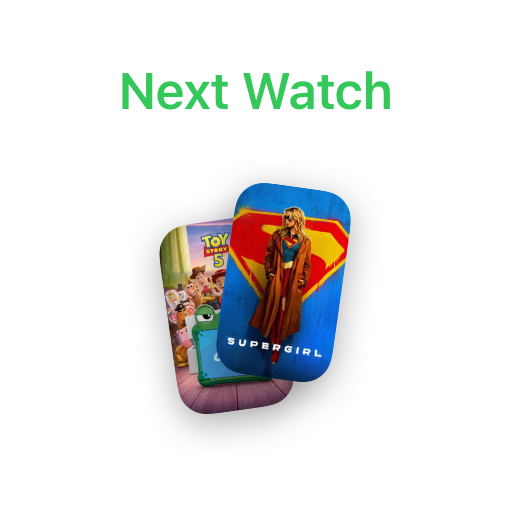
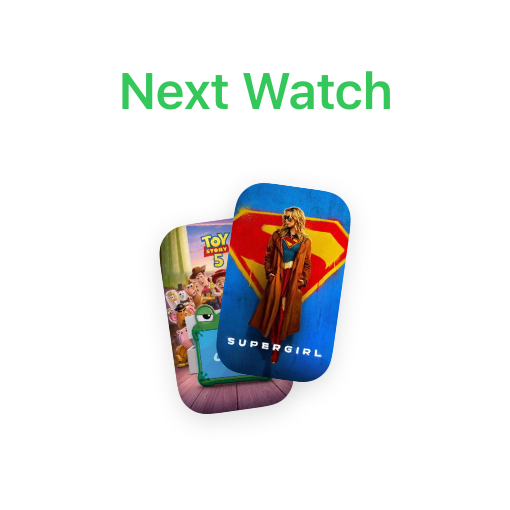
Replace Lock Screen collage tiles with extra-large widgets and soften shadows

Changed region(s): [[0.3824, 0.7353, 0.6471, 0.8529], [0.4118, 0.4118, 0.4706, 0.4412]]

diff --git a/index.html b/index.html
@@ -23,7 +23,7 @@
     <link rel="icon" type="image/png" sizes="16x16" href="/favicon-16.png?v=f683aeb">
     <link rel="apple-touch-icon" sizes="180x180" href="/favicon-180.png?v=f683aeb">
     <link rel="preload" as="image" type="image/png" href="/assets/hand-cursor.png?v=1">
-    <link rel="stylesheet" href="style.css?v=108">
+    <link rel="stylesheet" href="style.css?v=109">
     <script src="devices.js?v=4" defer></script>
     <script src="widgets.js?v=1" defer></script>
     <script src="cursor.js?v=1" defer></script>
@@ -114,37 +114,27 @@
 
     <section class="widgets-showcase" aria-labelledby="widgets-heading">
         <div class="widgets-copy">
-            <p class="widgets-eyebrow">Home &amp; Lock Screen widgets</p>
+            <p class="widgets-eyebrow">Home Screen widgets</p>
             <h2 id="widgets-heading">Your next watch, at a glance.</h2>
-            <p class="widgets-description">Keep your watchlist close and your next watch even closer. Bring your favorite movies and shows to your Home Screen and Lock Screen with widgets that make Binge feel right at home.</p>
+            <p class="widgets-description">Keep your watchlist close and your next watch even closer. Bring your favorite movies and shows to your Home Screen with widgets that make Binge feel right at home.</p>
         </div>
         <div class="widgets-wall" id="widgets-wall" tabindex="0" role="region" aria-label="Binge light-mode widgets. Scroll sideways to explore." aria-describedby="widgets-hint">
             <div class="widgets-track">
                 <div class="widgets-group">
-                    <img class="widget-tile widget-tile--large" src="assets/widgets/movies-large.png" width="1092" height="1092" alt="Movie watchlist with Spider-Man: Brand New Day, The Odyssey, Toy Story 5, Supergirl, and The Devil Wears Prada 2" loading="lazy" decoding="async">
-                    <img class="widget-tile widget-tile--small" src="assets/widgets/movies-small.png" width="510" height="510" alt="Watchlist widget with Spider-Man: Brand New Day and The Odyssey" loading="lazy" decoding="async">
-                    <img class="widget-tile widget-tile--small" src="assets/widgets/shows-small.png" width="510" height="510" alt="Watchlist widget with House of the Dragon and The Bear" loading="lazy" decoding="async">
-                    <img class="widget-tile widget-tile--medium" src="assets/widgets/shows-medium.png" width="1092" height="510" alt="Show watchlist with House of the Dragon, The Bear, Severance, and Alien: Earth" loading="lazy" decoding="async">
-                    <img class="widget-tile widget-tile--large" src="assets/widgets/shows-large.png" width="1092" height="1092" alt="Show watchlist with House of the Dragon, The Bear, Severance, Alien: Earth, and Wednesday" loading="lazy" decoding="async">
-                    <img class="widget-tile widget-tile--small" src="assets/widgets/next-small.png" width="510" height="510" alt="Next Watch widget with Toy Story 5 and Supergirl" loading="lazy" decoding="async">
-                    <img class="widget-tile widget-tile--large" src="assets/widgets/next-large.png" width="1092" height="1092" alt="Your Next Watch with The Odyssey, Toy Story 5, Supergirl, The Devil Wears Prada 2, and Project Hail Mary" loading="lazy" decoding="async">
-                    <img class="widget-tile widget-tile--medium" src="assets/widgets/next-medium.png" width="1092" height="510" alt="Your Next Watch with Toy Story 5, Supergirl, The Devil Wears Prada 2, and Project Hail Mary" loading="lazy" decoding="async">
-                    <img class="widget-tile widget-tile--small" src="assets/widgets/movies-small-alt.png" width="510" height="510" alt="Watchlist widget with The Devil Wears Prada 2 and Project Hail Mary" loading="lazy" decoding="async">
-                    <img class="widget-tile widget-tile--small" src="assets/widgets/shows-small-alt.png" width="510" height="510" alt="Watchlist widget with Wednesday and The Pitt" loading="lazy" decoding="async">
-                    <img class="widget-tile widget-tile--small" src="assets/widgets/next-small-alt.png" width="510" height="510" alt="Next Watch widget with Spider-Man: Brand New Day and The Odyssey" loading="lazy" decoding="async">
-                    <img class="widget-tile widget-tile--medium" src="assets/widgets/movies-medium.png" width="1092" height="510" alt="Movie watchlist with Spider-Man: Brand New Day, The Odyssey, Toy Story 5, and Supergirl" loading="lazy" decoding="async">
-                    <div class="widget-lock-stack">
-                        <img class="widget-tile widget-tile--lock" src="assets/widgets/lock-movie-odyssey.png" width="510" height="219" alt="The Odyssey movie watchlist Lock Screen widget" loading="lazy" decoding="async">
-                        <img class="widget-tile widget-tile--lock" src="assets/widgets/lock-show-bear.png" width="510" height="219" alt="The Bear show watchlist Lock Screen widget" loading="lazy" decoding="async">
-                    </div>
-                    <div class="widget-lock-stack">
-                        <img class="widget-tile widget-tile--lock" src="assets/widgets/lock-next-supergirl.png" width="510" height="219" alt="Supergirl next watch Lock Screen widget" loading="lazy" decoding="async">
-                        <img class="widget-tile widget-tile--lock" src="assets/widgets/lock-show-severance.png" width="510" height="219" alt="Severance show watchlist Lock Screen widget" loading="lazy" decoding="async">
-                    </div>
-                    <div class="widget-lock-stack">
-                        <img class="widget-tile widget-tile--lock" src="assets/widgets/lock-movie-toy-story.png" width="510" height="219" alt="Toy Story 5 movie watchlist Lock Screen widget" loading="lazy" decoding="async">
-                        <img class="widget-tile widget-tile--lock" src="assets/widgets/lock-show-pitt.png" width="510" height="219" alt="The Pitt show watchlist Lock Screen widget" loading="lazy" decoding="async">
-                    </div>
+                    <img class="widget-tile widget-tile--large" src="assets/widgets/movies-large.png?v=2" width="1092" height="1092" alt="Movie watchlist with Spider-Man: Brand New Day, The Odyssey, Toy Story 5, Supergirl, and The Devil Wears Prada 2" loading="lazy" decoding="async">
+                    <img class="widget-tile widget-tile--small" src="assets/widgets/movies-small.png?v=2" width="510" height="510" alt="Watchlist widget with Spider-Man: Brand New Day and The Odyssey" loading="lazy" decoding="async">
+                    <img class="widget-tile widget-tile--small" src="assets/widgets/shows-small.png?v=2" width="510" height="510" alt="Watchlist widget with House of the Dragon and The Bear" loading="lazy" decoding="async">
+                    <img class="widget-tile widget-tile--medium" src="assets/widgets/shows-medium.png?v=2" width="1092" height="510" alt="Show watchlist with House of the Dragon, The Bear, Severance, and Alien: Earth" loading="lazy" decoding="async">
+                    <img class="widget-tile widget-tile--large" src="assets/widgets/shows-large.png?v=2" width="1092" height="1092" alt="Show watchlist with House of the Dragon, The Bear, Severance, Alien: Earth, and Wednesday" loading="lazy" decoding="async">
+                    <img class="widget-tile widget-tile--small" src="assets/widgets/next-small.png?v=2" width="510" height="510" alt="Next Watch widget with Toy Story 5 and Supergirl" loading="lazy" decoding="async">
+                    <img class="widget-tile widget-tile--large" src="assets/widgets/next-large.png?v=2" width="1092" height="1092" alt="Your Next Watch with The Odyssey, Toy Story 5, Supergirl, The Devil Wears Prada 2, and Project Hail Mary" loading="lazy" decoding="async">
+                    <img class="widget-tile widget-tile--medium" src="assets/widgets/next-medium.png?v=2" width="1092" height="510" alt="Your Next Watch with Toy Story 5, Supergirl, The Devil Wears Prada 2, and Project Hail Mary" loading="lazy" decoding="async">
+                    <img class="widget-tile widget-tile--small" src="assets/widgets/movies-small-alt.png?v=2" width="510" height="510" alt="Watchlist widget with The Devil Wears Prada 2 and Project Hail Mary" loading="lazy" decoding="async">
+                    <img class="widget-tile widget-tile--small" src="assets/widgets/shows-small-alt.png?v=2" width="510" height="510" alt="Watchlist widget with Wednesday and The Pitt" loading="lazy" decoding="async">
+                    <img class="widget-tile widget-tile--small" src="assets/widgets/next-small-alt.png?v=2" width="510" height="510" alt="Next Watch widget with Spider-Man: Brand New Day and The Odyssey" loading="lazy" decoding="async">
+                    <img class="widget-tile widget-tile--medium" src="assets/widgets/movies-medium.png?v=2" width="1092" height="510" alt="Movie watchlist with Spider-Man: Brand New Day, The Odyssey, Toy Story 5, and Supergirl" loading="lazy" decoding="async">
+                    <img class="widget-tile widget-tile--extra-large" src="assets/widgets/movies-extra-large.png?v=2" width="1092" height="1674" alt="Extra-large movie watchlist with recent movies including Spider-Man: Brand New Day, The Odyssey, Toy Story 5, and Hoppers" loading="lazy" decoding="async">
+                    <img class="widget-tile widget-tile--extra-large" src="assets/widgets/shows-extra-large.png?v=2" width="1092" height="1674" alt="Extra-large show watchlist with House of the Dragon, The Bear, Severance, Fallout, and more" loading="lazy" decoding="async">
                 </div>
             </div>
         </div>

diff --git a/style.css b/style.css
@@ -2486,56 +2486,48 @@ html body [onclick]:not([aria-disabled="true"]) * {
     overflow-x: auto;
     overscroll-behavior-x: contain;
     scrollbar-width: none;
-    /* Leave space for shadows and soften the entrance and exit of the wall. */
-    padding: 24px 0 38px;
+    /* Keep the full shadow blur inside the scrollport above and below the tiles. */
+    padding: 36px 0 44px;
     mask-image: linear-gradient(to right, transparent, #000 4%, #000 96%, transparent);
     -webkit-mask-image: linear-gradient(to right, transparent, #000 4%, #000 96%, transparent);
 }
 
 .widgets-wall::-webkit-scrollbar { display: none; }
-.widgets-track { display: flex; width: max-content; }
+.widgets-track { display: flex; width: max-content; overflow: visible; }
 .widgets-group {
     display: grid;
     flex: none;
-    grid-template-columns: repeat(9, var(--widget-size));
+    grid-template-columns: repeat(12, var(--widget-size));
     grid-template-rows: repeat(3, var(--widget-size));
     gap: var(--widget-gap);
     padding-right: var(--widget-gap);
+    overflow: visible;
 }
 
 .widget-tile {
     display: block;
     width: 100%;
     height: 100%;
-    filter: drop-shadow(0 3px 5px rgb(27 39 58 / 5%)) drop-shadow(0 10px 12px rgb(27 39 58 / 7%));
+    filter: drop-shadow(0 5px 8px rgb(27 39 58 / 5%));
     user-select: none;
     -webkit-user-drag: none;
 }
 
-.widgets-group > .widget-tile:nth-child(1) { grid-area: 1 / 1 / 3 / 3; }
-.widgets-group > .widget-tile:nth-child(2) { grid-area: 1 / 3; }
-.widgets-group > .widget-tile:nth-child(3) { grid-area: 2 / 3; }
-.widgets-group > .widget-tile:nth-child(4) { grid-area: 1 / 4 / 2 / 6; }
-.widgets-group > .widget-tile:nth-child(5) { grid-area: 2 / 4 / 4 / 6; }
-.widgets-group > .widget-tile:nth-child(6) { grid-area: 1 / 6; }
-.widgets-group > .widget-tile:nth-child(7) { grid-area: 1 / 7 / 3 / 9; }
-.widgets-group > .widget-tile:nth-child(8) { grid-area: 3 / 1 / 4 / 3; }
-.widgets-group > .widget-tile:nth-child(9) { grid-area: 1 / 9; }
-.widgets-group > .widget-tile:nth-child(10) { grid-area: 2 / 9; }
-.widgets-group > .widget-tile:nth-child(11) { grid-area: 3 / 9; }
-.widgets-group > .widget-tile:nth-child(12) { grid-area: 3 / 7 / 4 / 9; }
-
-.widget-lock-stack {
-    display: grid;
-    grid-template-rows: repeat(2, minmax(0, 1fr));
-    gap: var(--widget-gap);
-    min-width: 0;
-    min-height: 0;
-}
-
-.widgets-group > .widget-lock-stack:nth-child(13) { grid-area: 3 / 3; }
-.widgets-group > .widget-lock-stack:nth-child(14) { grid-area: 2 / 6; }
-.widgets-group > .widget-lock-stack:nth-child(15) { grid-area: 3 / 6; }
+/* Mix tall lists into the wall without stretching any native widget shape. */
+.widgets-group > .widget-tile:nth-child(1) { grid-area: 1 / 3 / 3 / 5; }
+.widgets-group > .widget-tile:nth-child(2) { grid-area: 1 / 5; }
+.widgets-group > .widget-tile:nth-child(3) { grid-area: 2 / 5; }
+.widgets-group > .widget-tile:nth-child(4) { grid-area: 1 / 6 / 2 / 8; }
+.widgets-group > .widget-tile:nth-child(5) { grid-area: 2 / 6 / 4 / 8; }
+.widgets-group > .widget-tile:nth-child(6) { grid-area: 1 / 8; }
+.widgets-group > .widget-tile:nth-child(7) { grid-area: 1 / 11 / 3 / 13; }
+.widgets-group > .widget-tile:nth-child(8) { grid-area: 3 / 3 / 4 / 5; }
+.widgets-group > .widget-tile:nth-child(9) { grid-area: 3 / 5; }
+.widgets-group > .widget-tile:nth-child(10) { grid-area: 2 / 8; }
+.widgets-group > .widget-tile:nth-child(11) { grid-area: 3 / 8; }
+.widgets-group > .widget-tile:nth-child(12) { grid-area: 3 / 11 / 4 / 13; }
+.widgets-group > .widget-tile:nth-child(13) { grid-area: 1 / 1 / 4 / 3; }
+.widgets-group > .widget-tile:nth-child(14) { grid-area: 1 / 9 / 4 / 11; }
 
 .widgets-motion {
     display: block;

diff --git a/scripts/widget-assets.md b/scripts/widget-assets.md
@@ -6,12 +6,14 @@ Exported September 8, 2026 from Binge's iPhone SwiftUI widget source in the sibl
 - `ShowWatchlistWidget.swift`: SmallViewShows, MediumViewShows, LargeViewShows
 - `YourNextMovieWidget.swift`: YUSmallViewMovies, YUMediumViewMovies, YULargeViewMovies
 
-The source views were rendered by a temporary iOS app on the iPhone 17 Pro simulator using SwiftUI ImageRenderer, light color scheme, en_US locale, 16-point widget margins, white backgrounds, 24-point continuous corners, and 3× scale. Sizes: 170×170, 364×170, and 364×364 points. The poster loader used bundled TMDB artwork instead of synchronous network requests. The widget layouts themselves were preserved. No changes were made to the iPhone app project or its user library.
+The source views were rendered by a temporary iOS app on the iPhone 17 Pro simulator using SwiftUI ImageRenderer, light color scheme, en_US locale, 16-point widget margins, white backgrounds, 24-point continuous corners, and 3× scale. Sizes: 170×170, 364×170, and 364×364 points. The poster loader used bundled TMDB artwork instead of synchronous network requests. The widget layouts themselves were preserved; the later shadow refresh below only adjusts poster shadow styling. No changes were made to the iPhone app project or its user library.
 
 Movie and show titles, release dates, IDs, and poster paths were retrieved through the website's existing public TMDB search proxy. Posters came from TMDB's w185 image service. Movie selection includes 2026 releases Spider-Man: Brand New Day, The Odyssey, Toy Story 5, Supergirl, The Devil Wears Prada 2, and Project Hail Mary. Shows include House of the Dragon, The Bear, Severance, Alien: Earth, Wednesday, and The Pitt. These are illustrative watchlists; the website does not label them as live charts or upcoming releases.
 
 Small variants use different pairs of these titles. PNGs preserve native typography and transparent corners; website CSS supplies the outer shadows. To refresh, render the same views with updated TMDB items and replace the corresponding files in `assets/widgets`.
 
-## Lock Screen additions
+## Extra-large portrait widgets and shadow refresh
 
-Six accessoryRectangular renders use the app's `AccessoryRectangularViewMovies`, `AccessoryRectangularViewShows`, and `YUAccessoryRectangularViewMovies` views with The Odyssey, Toy Story 5, The Bear, Severance, Supergirl, and The Pitt. Each receives a single metadata item so its selection stays deterministic. Exported using the same iPhone simulator and light appearance at 170×73 points, 3× scale. The native Lock Screen content is displayed on a white presentation surface with 16-point corners, 8-point horizontal padding and 4-point vertical padding; these surfaces are for the website collage, not a simulated Lock Screen wallpaper. Pairs occupy the height of one small Home Screen widget. Existing Home Screen images remain in the expanded nine-column collage.
+The collage contains Home Screen widgets only. The two extra-large images use the app's `ExtraLargePortraitListView` from `ReelWidgetsBundle.swift`, composed with `LargeViewMovies` and `LargeViewShows`. Each is rendered at 364×558 points and 3× scale. The native fitting logic selects the number of complete rows that fit. Additional metadata and posters were retrieved from the same TMDB proxy for Hoppers, Scream 7, Backrooms, The Super Mario Galaxy Movie, Fallout, The Last of Us, A Knight of the Seven Kingdoms, and Stranger Things.
+
+All native poster shadows were softened for the website export from 34% opacity, radius 6, y=3 to 14% opacity, radius 4, y=2. App source is unchanged. Outer CSS shadows use a single 5%-opacity drop shadow with an 8px blur and 5px downward offset. The scrollport reserves 36px above and 44px below, and the track and groups retain visible overflow so the blur is not cut off. The horizontal edge mask gently fades both widgets and shadows as they enter and leave the collage.
